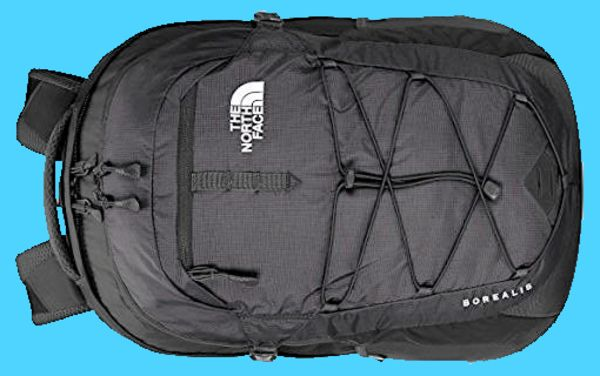
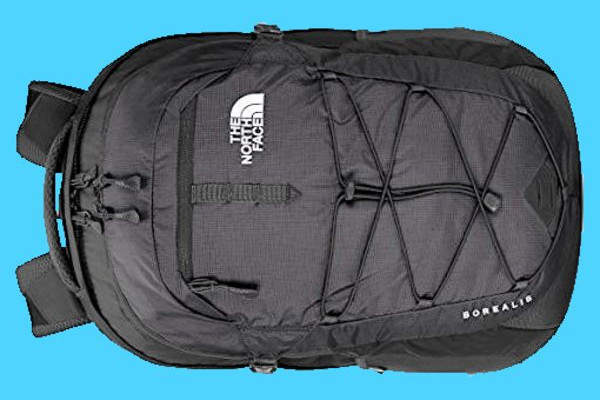
Fix flex-shrink stretching images.

diff --git a/src/Gadgets.js b/src/Gadgets.js
@@ -51,11 +51,9 @@ class Gadgets extends Component {
                       bought it a few years ago, and never looked back.
                     </p>
                   </div>
-                  <img
-                    alt=""
-                    src={backpackImage}
-                    className="Gadgets__item-image"
-                  />
+                  <div className="Gadgets__item-image">
+                    <img alt="" src={backpackImage} />
+                  </div>
                 </a>
               </li>
               <li className="Gadgets__item">
@@ -80,11 +78,9 @@ class Gadgets extends Component {
                     </li>
                   </ul>
                 </div>
-                <img
-                  alt=""
-                  src={keyboardImage}
-                  className="Gadgets__item-image"
-                />
+                <div className="Gadgets__item-image">
+                  <img alt="" src={keyboardImage} />
+                </div>
               </li>
               <li>
                 <a href={affiliateLinks.pen} className="Gadgets__item">
@@ -96,11 +92,9 @@ class Gadgets extends Component {
                       good choice for everyday writing.
                     </p>
                   </div>
-                  <img
-                    alt=""
-                    src={penImage}
-                    className="Gadgets__item-image"
-                  />
+                  <div className="Gadgets__item-image">
+                    <img alt="" src={penImage} />
+                  </div>
                 </a>
               </li>
             </ul>

diff --git a/src/Gadgets.css b/src/Gadgets.css
@@ -63,6 +63,12 @@
 
 .Gadgets__item-image {
   flex: 1;
+  min-width: 0;
+}
+
+.Gadgets__item-image img {
+  width: 100%;
+  display: block;
 }
 
 @media (max-width: 768px) {
